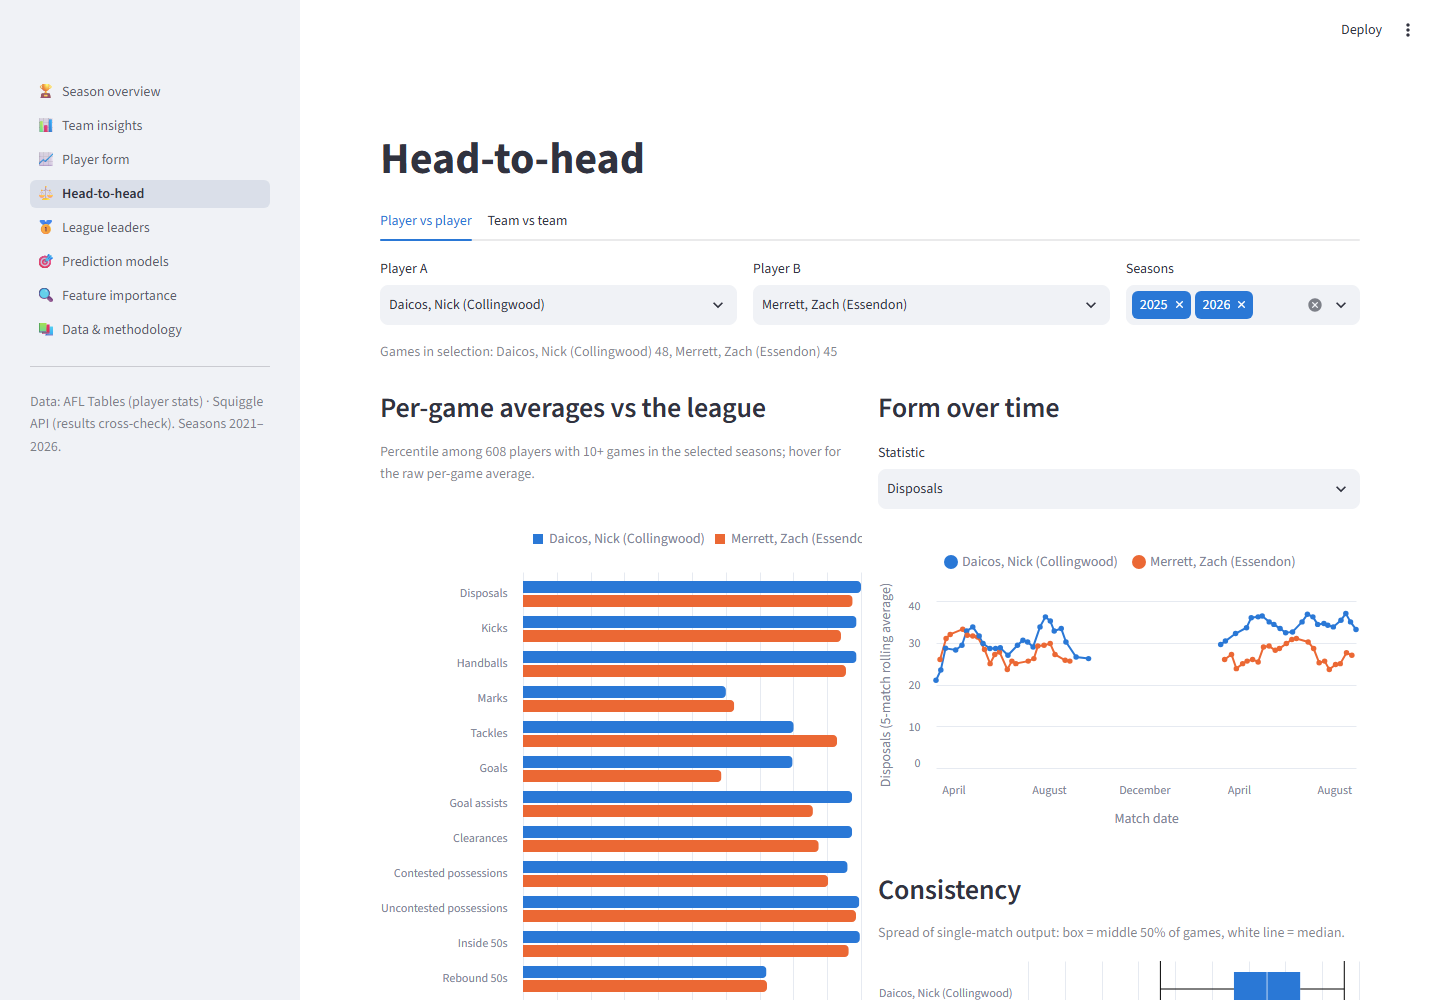
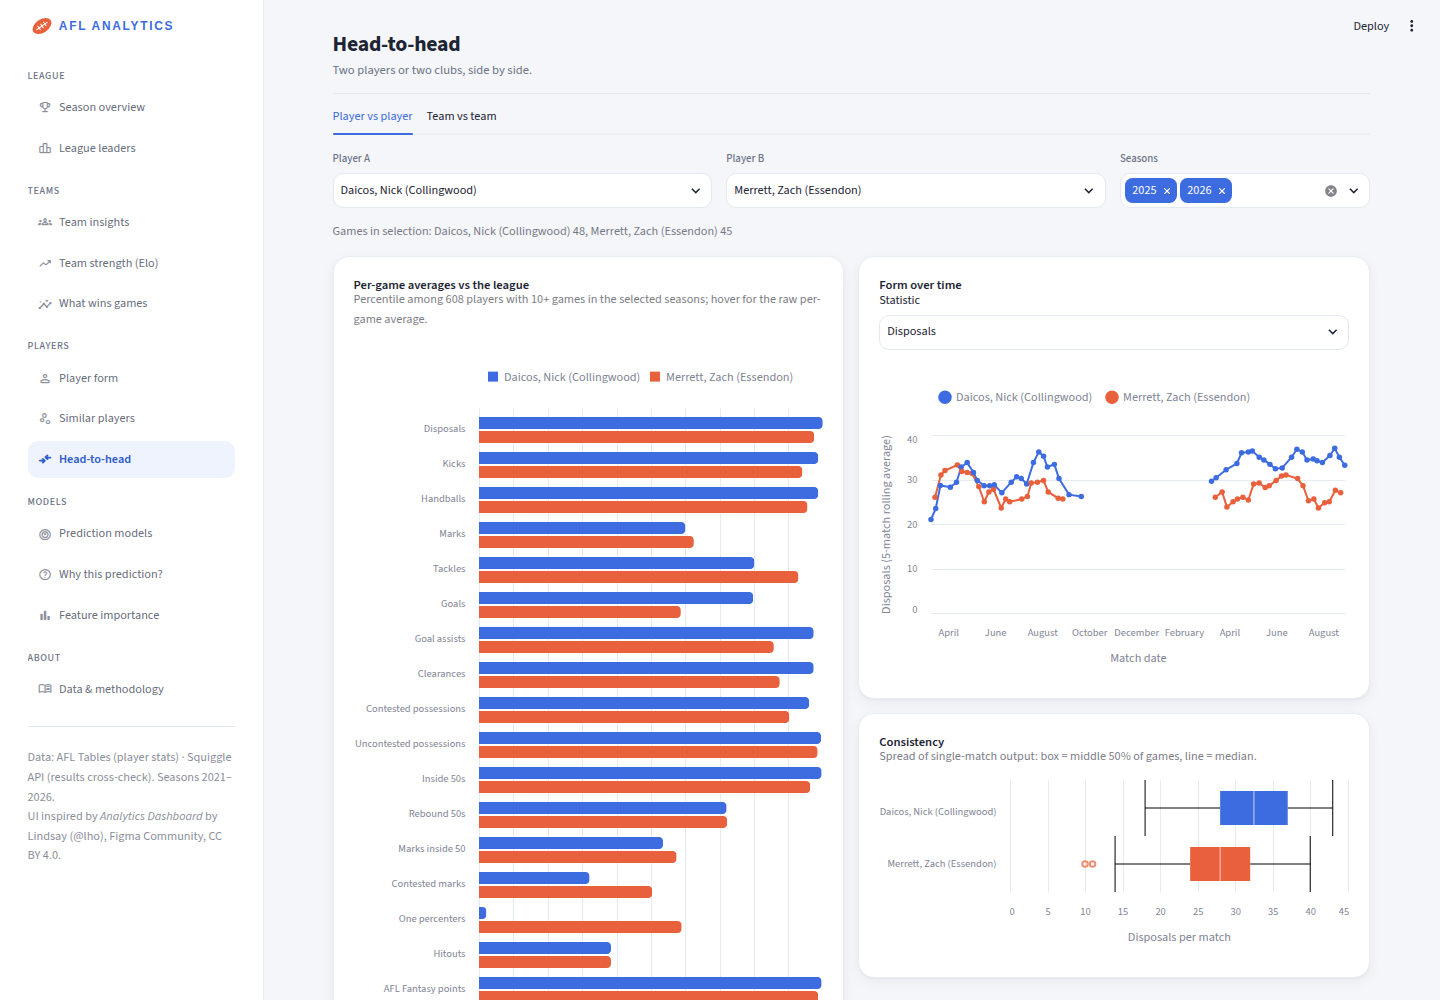
Document new pages, design credit and methodology; refresh screenshots and figures

diff --git a/scripts/screenshots.py b/scripts/screenshots.py
@@ -1,4 +1,5 @@
 """Capture dashboard screenshots for the README (requires the app running on localhost:8501)."""
+import os
 import sys
 from pathlib import Path
 
@@ -10,16 +11,20 @@ args = [a for a in sys.argv[1:] if a != "--tall"]
 BASE = args[0] if args else "http://localhost:8501"
 if TALL:
     OUT = OUT.parent / "screenshots_full"
-PAGES = {"": "overview", "teams": "teams", "player": "player", "head-to-head": "head_to_head", "leaders": "leaders",
-         "models": "models", "importance": "importance", "about": "about"}
+PAGES = {"": "overview", "leaders": "leaders", "teams": "teams", "elo": "team_strength", "what-wins": "what_wins",
+         "player": "player", "similar": "similar", "head-to-head": "head_to_head", "models": "models",
+         "explain": "explain", "importance": "importance", "about": "about"}
+# Optional: a pre-installed Chromium (e.g. CHROMIUM=/opt/pw-browsers/chromium) instead of `playwright install`.
+CHROMIUM = os.environ.get("CHROMIUM")
+SCHEME = os.environ.get("SCHEME", "light")
 
 
 def main() -> None:
     OUT.mkdir(parents=True, exist_ok=True)
     problems = []
     with sync_playwright() as p:
-        browser = p.chromium.launch()
-        page = browser.new_page(viewport={"width": 1440, "height": 4200 if TALL else 1000}, color_scheme="light")
+        browser = p.chromium.launch(executable_path=CHROMIUM)
+        page = browser.new_page(viewport={"width": 1440, "height": 4200 if TALL else 1000}, color_scheme=SCHEME)
         page.on("console", lambda m: m.type == "error" and problems.append(f"console: {m.text}"))
         for path, name in PAGES.items():
             page.goto(f"{BASE}/{path}")
@@ -27,7 +32,8 @@ def main() -> None:
             page.wait_for_timeout(9000)
             errors = page.locator("[data-testid='stException']").all_inner_texts()
             problems += [f"{path}: {e[:300]}" for e in errors]
-            page.screenshot(path=OUT / f"{name}.png", full_page=True)
+            suffix = "" if SCHEME == "light" else f"_{SCHEME}"
+            page.screenshot(path=OUT / f"{name}{suffix}.png", full_page=True)
         browser.close()
     print("\n".join(problems) or "no errors")
 

diff --git a/README.md b/README.md
@@ -6,6 +6,8 @@ An end-to-end data project on **real AFL data, 2021–2026**. It covers polite d
 
 ![Season overview page](docs/screenshots/overview.png)
 
+<sub>UI inspired by [Analytics Dashboard by Lindsay (@lho)](https://www.figma.com/@lho), Figma Community, [CC BY 4.0](https://creativecommons.org/licenses/by/4.0/). Light and dark themes; dark mode shown in [`docs/screenshots/overview_dark.png`](docs/screenshots/overview_dark.png).</sub>
+
 ## The problem
 
 Can we predict how many **disposals** and **AFL Fantasy points** a player will record in their *next* match, using only what is known before the bounce? And how much better than "just use their recent average" can we do?
@@ -14,7 +16,9 @@ The dashboard also supports the analyst questions around that:
 
 - Which teams win the territory battle?
 - How is a player's form trending?
-- How do two players compare against the league?
+- How do two players compare against the league, and who plays most like whom?
+- Which teams are strongest right now (Elo), and which stats go with winning?
+- Why did the model predict *that* for this player in this match?
 
 ## Key results (2026 season, held-out test set: 9,982 player-matches)
 
@@ -89,7 +93,7 @@ Full report: [`reports/VALIDATION.md`](reports/VALIDATION.md) (machine-readable:
 ```
 scrape (AFL Tables, cached) → parse (selectolax → Parquet) → validate (DuckDB SQL vs Squiggle & internal totals)
   → clean (rule-based flags) → features (Polars, strictly pre-match) → train (Ridge / LightGBM / CatBoost)
-  → figures + Streamlit dashboard
+  → explain (LightGBM contributions) → figures + Streamlit dashboard
 ```
 
 - **Dataset:** 1,280 matches, 58,880 player-match rows, 1,124 players. 58,480 rows are used for modelling (players who took the field).
@@ -111,21 +115,35 @@ More detail: [`docs/methodology.md`](docs/methodology.md).
 
 ## Dashboard pages
 
-| Page | What it shows |
-|---|---|
-| **Season overview** | Premiers, minor premiers, scoring, biggest win and crowds; an interactive **ladder race** (position after every round); distribution of winning margins; attendance by venue; how scoring, disposals, tackles and contested ball have changed since 2021 |
-| **Team insights** | Computed ladder; per-game team stat comparison; **team style fingerprint** heatmap (13 stats plus concessions, coloured by standard deviations from the league average); match-by-match margins; territory chart (inside 50s for vs against) |
-| **Player form** | Per-match values with a rolling average and the best game annotated; **percentile profile against players in the same inferred role**; splits by opponent, home/away, result and venue; distribution; 2026 predictions with **80% prediction intervals** |
-| **Head-to-head** | Player vs player: league percentiles, form overlay, consistency box plots, every direct meeting. Team vs team: meetings, wins, margin chart. |
-| **League leaders** | Per-game leaderboard for any stat; home-and-away goal and Brownlow-vote leaders; **player landscape scatter** (any two stats) with an inferred role highlighted |
-| **Prediction models** | Test RMSE/MAE vs baselines; predicted-vs-actual density; **calibration by decile**; error across the season; residual distribution; error by role; the biggest over- and under-performances of 2026 |
-| **Feature importance** | Gain share by feature family; permutation importance on the 2026 test set (with a zoom toggle that hides the dominant feature); LightGBM gain and CatBoost importance |
-| **Data & methodology** | Sources, derived quantities, validation summary |
+Eleven pages in five sidebar sections. Every chart has tooltips and a short caption explaining how it was computed.
+
+| Section | Page | What it shows |
+|---|---|---|
+| League | **Season overview** | KPI tiles (premiers, minor premiers, scoring and crowd trends as sparklines); an interactive **ladder race**; winning margins; attendance by venue; how the game has changed since 2021 |
+| League | **League leaders** | Per-game leaderboard for any stat; home-and-away goal and Brownlow-vote leaders; **player landscape scatter** by inferred role; CSV download |
+| Teams | **Team insights** | Computed ladder; team stat comparison; **team style fingerprint** heatmap; match-by-match margins; territory chart |
+| Teams | **Team strength (Elo)** *(new)* | An **Elo rating** computed from every result since 2021 (settings tuned on 2022–24; 70.7% of 2025–26 matches tipped correctly vs 57.4% for "always the home team"); **home-ground advantage by team** with 95% confidence intervals |
+| Teams | **What wins games** *(new)* | Correlation of every team-stat difference with the final margin, plus a per-match scatter with a fitted line for any stat |
+| Players | **Player form** | Form trend, role-peer percentiles and splits, plus new tabs: **form calendar** (rounds × seasons), **league spread** (player highlighted among every player, per stat), **age curve** (league average by age with the player's path), **with / without** (team win rate and margin with vs without the player), 2026 predictions with 80% intervals, season log |
+| Players | **Similar players** *(new)* | A 2-D **similarity map** (PCA of standardised per-game stats) and the ten **players most like** the selected one |
+| Players | **Head-to-head** | Player vs player (percentiles, form overlay, consistency, direct meetings) and team vs team |
+| Models | **Prediction models** | Test RMSE/MAE vs baselines; predicted vs actual; calibration by decile; error by round and role; biggest surprises |
+| Models | **Why this prediction?** *(new)* | A **waterfall** of LightGBM's own per-feature contributions (TreeSHAP, `pred_contrib`) for any 2026 player-match, from the average prediction to the final number, plus what drives that player's predictions across the season |
+| Models | **Feature importance** | Gain share by feature family; permutation importance on 2026 |
+| About | **Data & methodology** | Sources, derived quantities, validation summary, design notes |
 
 | | |
 |---|---|
+| ![Team strength](docs/screenshots/team_strength.png) | ![Why this prediction?](docs/screenshots/explain.png) |
+| ![Similar players](docs/screenshots/similar.png) | ![What wins games](docs/screenshots/what_wins.png) |
 | ![Team insights](docs/screenshots/teams.png) | ![Player form](docs/screenshots/player.png) |
 | ![League leaders](docs/screenshots/leaders.png) | ![Prediction models](docs/screenshots/models.png) |
+
+### Design
+
+The look (light grey canvas, white rounded cards with soft shadows, KPI tiles, a filter bar and a sidebar with a highlighted active item) is **inspired by [Analytics Dashboard by Lindsay (@lho)](https://www.figma.com/@lho), Figma Community, licensed [CC BY 4.0](https://creativecommons.org/licenses/by/4.0/)**. It is implemented with Streamlit theming (`.streamlit/config.toml`, separate light and dark themes) plus a small stylesheet (`app/style.css`) and layout helpers (`app/ui.py`).
+
+The design's chart colours were **adapted and validated rather than copied**: blue `#3d6be0`, coral `#e8603c` and green `#17a673` pass colour-vision-deficiency separation, lightness, chroma and ≥ 3:1 contrast checks on both the light and the dark card surface (details in [`docs/methodology.md`](docs/methodology.md#design)).
 
 ## Stack (and why)
 
@@ -138,6 +156,7 @@ More detail: [`docs/methodology.md`](docs/methodology.md).
 | **scikit-learn** | Ridge baseline model, preprocessing pipelines, k-means role inference, permutation importance |
 | **LightGBM** | Fast gradient boosting with native categorical support |
 | **CatBoost** | Gradient boosting with ordered target statistics for high-cardinality categoricals (team, opponent, venue) |
+| **NumPy** | PCA for the similarity map (SVD) and the Elo grid search, without adding dependencies |
 | **Streamlit + Altair** | Pure-Python interactive dashboard, with Altair charts declared exactly; the same chart code exports the README figures (via vl-convert) |
 
 ## Limitations (honest summary)
@@ -147,6 +166,8 @@ More detail: [`docs/methodology.md`](docs/methodology.md).
 - **Team selection is assumed known.** Predictions are made for players who actually played. A real pre-game system would also need to handle late changes and the named substitute, whose minutes are uncertain.
 - **Test-set use.** All tuning and model selection used 2025 only. The 2026 test set was scored twice during development: once for the initial three models, then again after adding the LightGBM grid, a wider Ridge alpha range (alpha had hit the edge of the first grid on validation) and the ensemble. The selected model and its rank did not depend on 2026, but this is disclosed for transparency.
 - **Coverage starts in 2021.** Rolling features for early-2021 matches have shorter histories, and pre-2021 career form is not used apart from career games played.
+- **Match momentum charts were not built.** They need the scoring progression inside the raw AFL Tables match pages; the processed tables hold only final scores, and the raw cache was not available when the dashboard was extended. Nothing was approximated in its place.
+- **The new analyses are descriptive.** Elo uses results only (no margins or travel); home advantage uses the designated home team; "what wins games" and "with / without" show associations, not causes; age curves are a six-season cross-section.
 - **Single primary source** for player stats. It is cross-checked against Squiggle for scores and against its own team totals, but player-level stats have no second free source to compare against.
 
 ## How to run
@@ -162,7 +183,7 @@ python scripts/run_pipeline.py
 # Or step by step:
 set PYTHONPATH=src                # macOS/Linux: export PYTHONPATH=src
 python -m afl.scrape && python -m afl.parse && python -m afl.validate && python -m afl.clean
-python -m afl.features && python -m afl.train && python -m afl.figures
+python -m afl.features && python -m afl.train && python -m afl.explain && python -m afl.figures
 
 # Dashboard (only needs requirements.txt plus the committed data/processed files)
 streamlit run app/streamlit_app.py
@@ -171,8 +192,10 @@ streamlit run app/streamlit_app.py
 ## Repository layout
 
 ```
-app/streamlit_app.py      Streamlit dashboard (6 pages)
-src/afl/                  scrape · parse · squiggle · validate · clean · features · train · charts · figures
+app/streamlit_app.py      Streamlit entry point and navigation (11 pages)
+app/views/                pages: league · teams · players · models
+app/common.py, ui.py      shared queries; card / KPI / filter-bar helpers (style.css, static/logo.svg)
+src/afl/                  scrape · parse · squiggle · validate · clean · features · train · explain · insights · charts · figures
 scripts/                  run_pipeline.py, screenshots.py
 data/processed/           Parquet tables used by the dashboard (raw HTML cache is git-ignored)
 reports/                  VALIDATION.md, validation.json, cleaning.json

diff --git a/docs/methodology.md b/docs/methodology.md
@@ -43,3 +43,42 @@ Every rolling feature is computed on matches *before* the one being predicted (`
 - **Baselines:** the player's last-5-match average, and their season-to-date average. When a player has no history, the baselines fall back to the average debut output in the training data.
 - **Metrics:** RMSE, MAE and R² on the 2026 test matches. Results are also reported by inferred role and for full-match established players.
 - **Prediction intervals (80%):** empirical 10th/90th-percentile residuals of the selected model on 2025, computed within quintiles of the predicted value. Test coverage: 81.9% for disposals, 82.6% for fantasy points.
+
+### Explaining individual predictions ("Why this prediction?")
+
+- `afl.explain` refits the final LightGBM for each target with exactly the hyperparameters stored in `results/metrics.json` (same features, same 2021–2025 rows, same seed). Before saving anything it checks that the refit reproduces the LightGBM predictions already in `predictions.parquet`; the maximum difference is 0.0 for both targets, so **no model result changes**.
+- Contributions come from LightGBM's built-in `pred_contrib=True` (TreeSHAP); no extra library is used. For every 2026 prediction, base value + contributions = the LightGBM prediction.
+- To keep the deployed app small, each prediction stores its 12 largest contributions plus one row holding the exact sum of the other 56, so the waterfall still adds up.
+- The headline model is the ensemble; only its LightGBM member is explained, and the page says so. Contributions describe what the model relied on, not what caused the result.
+
+### Team strength (Elo) and home-ground advantage
+
+- **Elo** is computed from every result (win = 1, draw = 0.5, loss = 0) in date order. Every team starts at 1,500 in round 1, 2021. Expected result = 1 / (1 + 10^(−(home − away + HGA)/400)); after each match the winner takes K × (result − expected) from the loser. Between seasons each rating keeps a fraction of its distance from 1,500.
+- **K, the home bonus and the carry-over** were chosen by grid search (K 20–60, home bonus 0–120, carry-over 0.5–1.0) to minimise the Brier score on 2022–2024 (2021 is burn-in). Chosen: K = 40, home bonus = 60 Elo points, carry-over = 70%; the home-bonus optimum is inside the grid, not at its edge.
+- **Out of sample (2025–2026, 434 matches):** Elo tips 70.7% of decided matches correctly vs 57.4% for always tipping the home team; Brier score 0.185 (0.25 = coin flip).
+- **Home-ground advantage by team** = (average margin as the designated home team − average margin as the away team) ÷ 2, home-and-away rounds, with a 95% confidence interval from the standard error of the two means. "Home" is AFL Tables' designated home team, so shared grounds and relocated fixtures dilute the effect; most intervals overlap.
+- The one match with a cross-source score conflict has the same winner in both sources, so Elo is unaffected; it is excluded from the margin-based analyses.
+
+### What wins games
+
+- One row per match (home minus away, so no match is double-counted), using the team totals printed on each AFL Tables match page.
+- For every stat: Pearson correlation between the stat difference and the final margin, the least-squares slope (points of margin per unit of difference) and how often the team ahead on the stat won.
+- Goals, behinds, rushed behinds and Brownlow votes are excluded because they *are* the score or are awarded after it. The results are associations, not causes (for example, rebound 50s correlate negatively because the team under pressure defends more).
+
+### Player-level views
+
+- **Similarity map:** per-game averages on 16 stats (fantasy points excluded because it is a weighted sum of the others) for players with at least N games in the chosen seasons, standardised, then projected onto the first two principal components with a NumPy SVD. "Most similar" uses Euclidean distance across all 16 standardised stats, not the 2-D picture; similarity = 1 / (1 + distance).
+- **League spread:** every qualifying player's per-game average as a dot, one row per stat with its own scale. Vertical position is fixed random jitter with no meaning.
+- **Age curves:** league mean and interquartile range of single-match output by whole year of age (ages with at least 150 player-matches), with the player's average at each age overlaid. Six seasons is a cross-section, not a career curve, and older ages contain only the survivors.
+- **Form calendar:** a season × round grid coloured by the player's output. Qualifying and elimination finals share a column (same week). Rounds the player missed are drawn as empty dashed cells and nothing is filled in.
+- **With / without:** for each season in which the player played at least once for their main club, the club's win rate and average margin in matches with and without them. Descriptive only: absences coincide with injuries, opposition and form, and samples without a regular player are often tiny.
+
+### Not built: match momentum
+
+Match momentum charts need the quarter-by-quarter scoring progression from the AFL Tables match pages. The processed tables store only final scores and player totals, and the raw HTML cache (`data/raw/`, git-ignored) was not available in the environment used for this update, so this view was not built rather than approximated. It can be added by extending `afl.parse` to read the scoring-progression table from the cached pages.
+
+### Design
+
+- The UI is inspired by [Analytics Dashboard by Lindsay (@lho)](https://www.figma.com/@lho), Figma Community, [CC BY 4.0](https://creativecommons.org/licenses/by/4.0/): light grey canvas, white rounded cards with soft shadows, KPI tiles with sparklines, a filter bar, and a sidebar with a highlighted active item. Colours, type and spacing live in `.streamlit/config.toml` (separate light and dark themes) and `app/style.css`; layout helpers are in `app/ui.py`.
+- **Chart colours were adapted, not copied.** The design's blue, orange-red and green were re-stepped to `#3d6be0`, `#e8603c` and `#17a673` and checked with a palette validator (OKLab lightness band, chroma floor, colour-vision-deficiency separation for every pair, normal-vision separation, and ≥ 3:1 contrast). All checks pass on both card surfaces (`#ffffff` light, `#1c2030` dark). The worst CVD pair (green vs coral, ΔE 8.7 deutan) is never the only cue: legends, labels and position always carry the meaning too.
+- Diverging scales run coral → neutral grey → blue; sequential scales use one hue, light to dark, with separate steps for dark mode.
